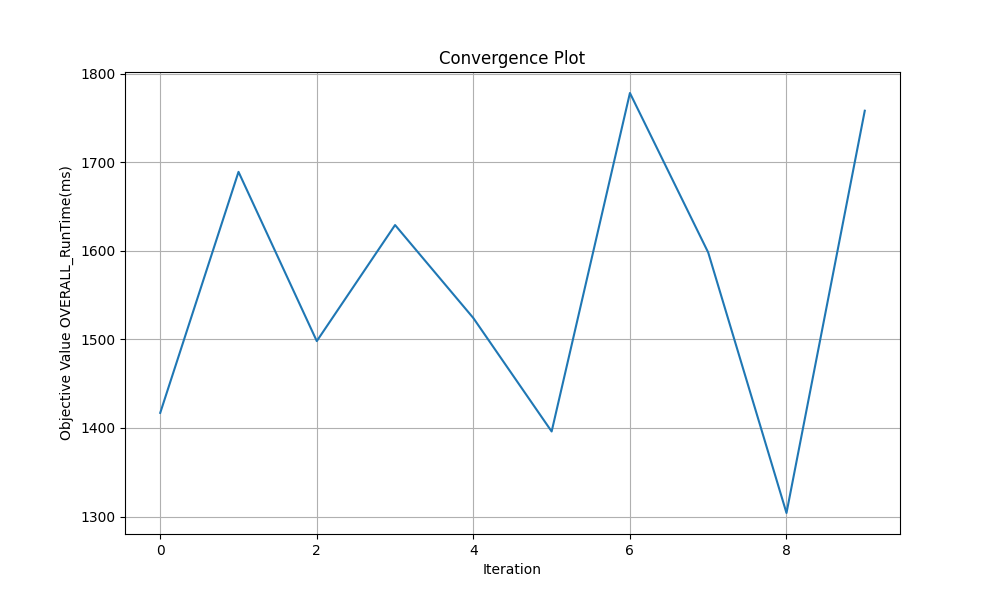
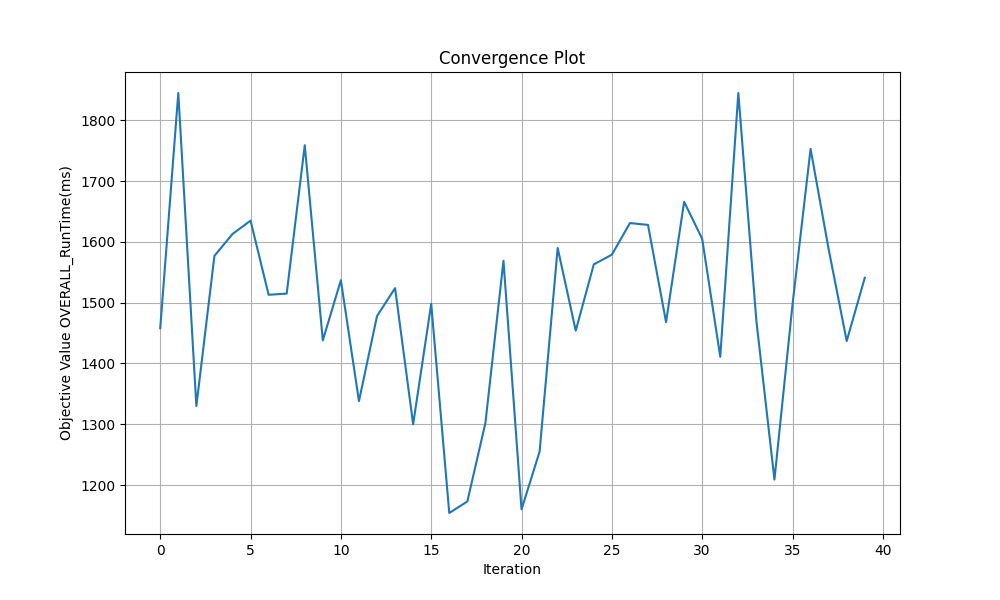
Aggiunta analisi di sensibilità

diff --git a/src/sense_metrics.py b/src/sense_metrics.py
@@ -1,0 +1,137 @@
+#Sensitivity analysis
+
+# we examine what impact each feature has on the model’s prediction. 
+# We change the feature value or try to ignore it somehow while all the other features stay constant, and see the output of the model. 
+# If by changing the feature value the model’s outcome has altered drastically, it means that this feature has a big impact on the prediction.
+
+import pandas as pd
+import matplotlib.pyplot as plt
+from skopt.space import Categorical
+
+# Caricamento dei dati dal file CSV
+#file_path = '/home/agostino/ycsb/results/merged_data.csv'
+file_path = '/app/results/merged_data.csv'
+merged_df = pd.read_csv(file_path)
+
+# Definizione dello spazio di ricerca per ogni parametro
+parameter_space = {
+    'workload': Categorical(['workloada', 'workloadb']),
+    'write_concern': Categorical(['unacknowledged', 'acknowledged', 'journaled', 'majority']),
+    'db_type': Categorical(['mongodb']),
+    'read_preference': Categorical(['primary', 'secondary', 'nearest']),
+    'threads': Categorical([2, 4, 8]),
+    'target': Categorical([1000, 3000, 5000, 10000]),
+    'minutes': Categorical([0.1, 0.3, 0.5])
+}
+
+# Parametri di base fissati (valori medi o di default)
+base_params = {
+    'workload': 'workloada',
+    'write_concern': 'acknowledged',
+    'db_type': 'mongodb',
+    'read_preference': 'primary',
+    'threads': 4,
+    'target': 5000,
+    'minutes': 0.3
+}
+
+# Funzione per filtrare e calcolare le metriche di performance
+def calculate_performance(params):
+    # Filtra il DataFrame per il set di parametri dato
+    subset = merged_df[
+        (merged_df['Workload'] == params['workload']) &
+        (merged_df['Write_Concern'] == params['write_concern']) &
+        (merged_df['DB_Type'] == params['db_type']) &
+        (merged_df['Read_Preference'] == params['read_preference']) &
+        (merged_df['Threads'] == params['threads']) &
+        (merged_df['Target'] == params['target']) &
+        (merged_df['Minutes'] == params['minutes'])
+    ]
+    
+    if subset.empty:
+        return None, None, None, None  # Nessun dato per questa configurazione
+    
+    # Calcola le medie delle metriche
+    mean_runtime = subset['OVERALL_RunTime(ms)'].mean()
+    mean_throughput = subset['OVERALL_Throughput(ops/sec)'].mean()
+    mean_read_latency = subset['READ_AverageLatency(us)'].mean()
+    mean_update_latency = subset['UPDATE_AverageLatency(us)'].mean()
+    return mean_runtime, mean_throughput, mean_read_latency, mean_update_latency
+
+# Esegue l'analisi di sensibilità per ciascun parametro
+sensitivity_results = {}
+
+for param, values in parameter_space.items():
+    runtimes = []
+    throughputs = []
+    read_latencies = []
+    update_latencies = []
+    
+    print(f"Analisi di sensibilità per il parametro: {param}")
+    
+    for value in values.categories:
+        # Crea una copia dei parametri di base e modifica solo il parametro corrente
+        test_params = base_params.copy()
+        test_params[param] = value
+        
+        # Calcola le performance per il valore corrente del parametro
+        runtime, throughput, read_latency, update_latency = calculate_performance(test_params)
+        
+        if runtime is not None and throughput is not None:
+            runtimes.append(runtime)
+            throughputs.append(throughput)
+            read_latencies.append(read_latency)
+            update_latencies.append(update_latency)
+        else:
+            runtimes.append(float('nan'))
+            throughputs.append(float('nan'))
+            read_latencies.append(float('nan'))
+            update_latencies.append(float('nan'))
+    
+    # Salva i risultati
+    sensitivity_results[param] = {
+        'values': values.categories,
+        'runtimes': runtimes,
+        'throughputs': throughputs,
+        'read_latencies': read_latencies,
+        'update_latencies': update_latencies
+    }
+
+    # Plot dei risultati per il parametro corrente
+    plt.figure(figsize=(15, 10))
+
+    # Grafico del runtime
+    plt.subplot(2, 2, 1)
+    plt.plot(values.categories, runtimes, marker='o', color='b')
+    plt.title(f'Sensibilità di Runtime per {param}')
+    plt.xlabel(param)
+    plt.ylabel('Runtime (ms)')
+    plt.grid(True)
+
+    # Grafico del throughput
+    plt.subplot(2, 2, 2)
+    plt.plot(values.categories, throughputs, marker='o', color='g')
+    plt.title(f'Sensibilità di Throughput per {param}')
+    plt.xlabel(param)
+    plt.ylabel('Throughput (ops/sec)')
+    plt.grid(True)
+
+    # Grafico della latenza di lettura
+    plt.subplot(2, 2, 3)
+    plt.plot(values.categories, read_latencies, marker='o', color='r')
+    plt.title(f'Sensibilità di Latency Lettura per {param}')
+    plt.xlabel(param)
+    plt.ylabel('Read Latency (us)')
+    plt.grid(True)
+
+    # Grafico della latenza di aggiornamento
+    plt.subplot(2, 2, 4)
+    plt.plot(values.categories, update_latencies, marker='o', color='purple')
+    plt.title(f'Sensibilità di Latency Aggiornamento per {param}')
+    plt.xlabel(param)
+    plt.ylabel('Update Latency (us)')
+    plt.grid(True)
+
+    # Mostra i grafici
+    plt.tight_layout()
+    plt.show()

diff --git a/src/bayes_runtime.py b/src/bayes_runtime.py
@@ -49,7 +49,7 @@ space = [
 
 
 # Esecuzione dell'ottimizzazione bayesiana
-result = gp_minimize(objective, space, n_calls=10, random_state=None)
+result = gp_minimize(objective, space, n_calls=40, random_state=None)
 
 # Risultati
 print(f"Best Parameters Combination: {result.x}")
